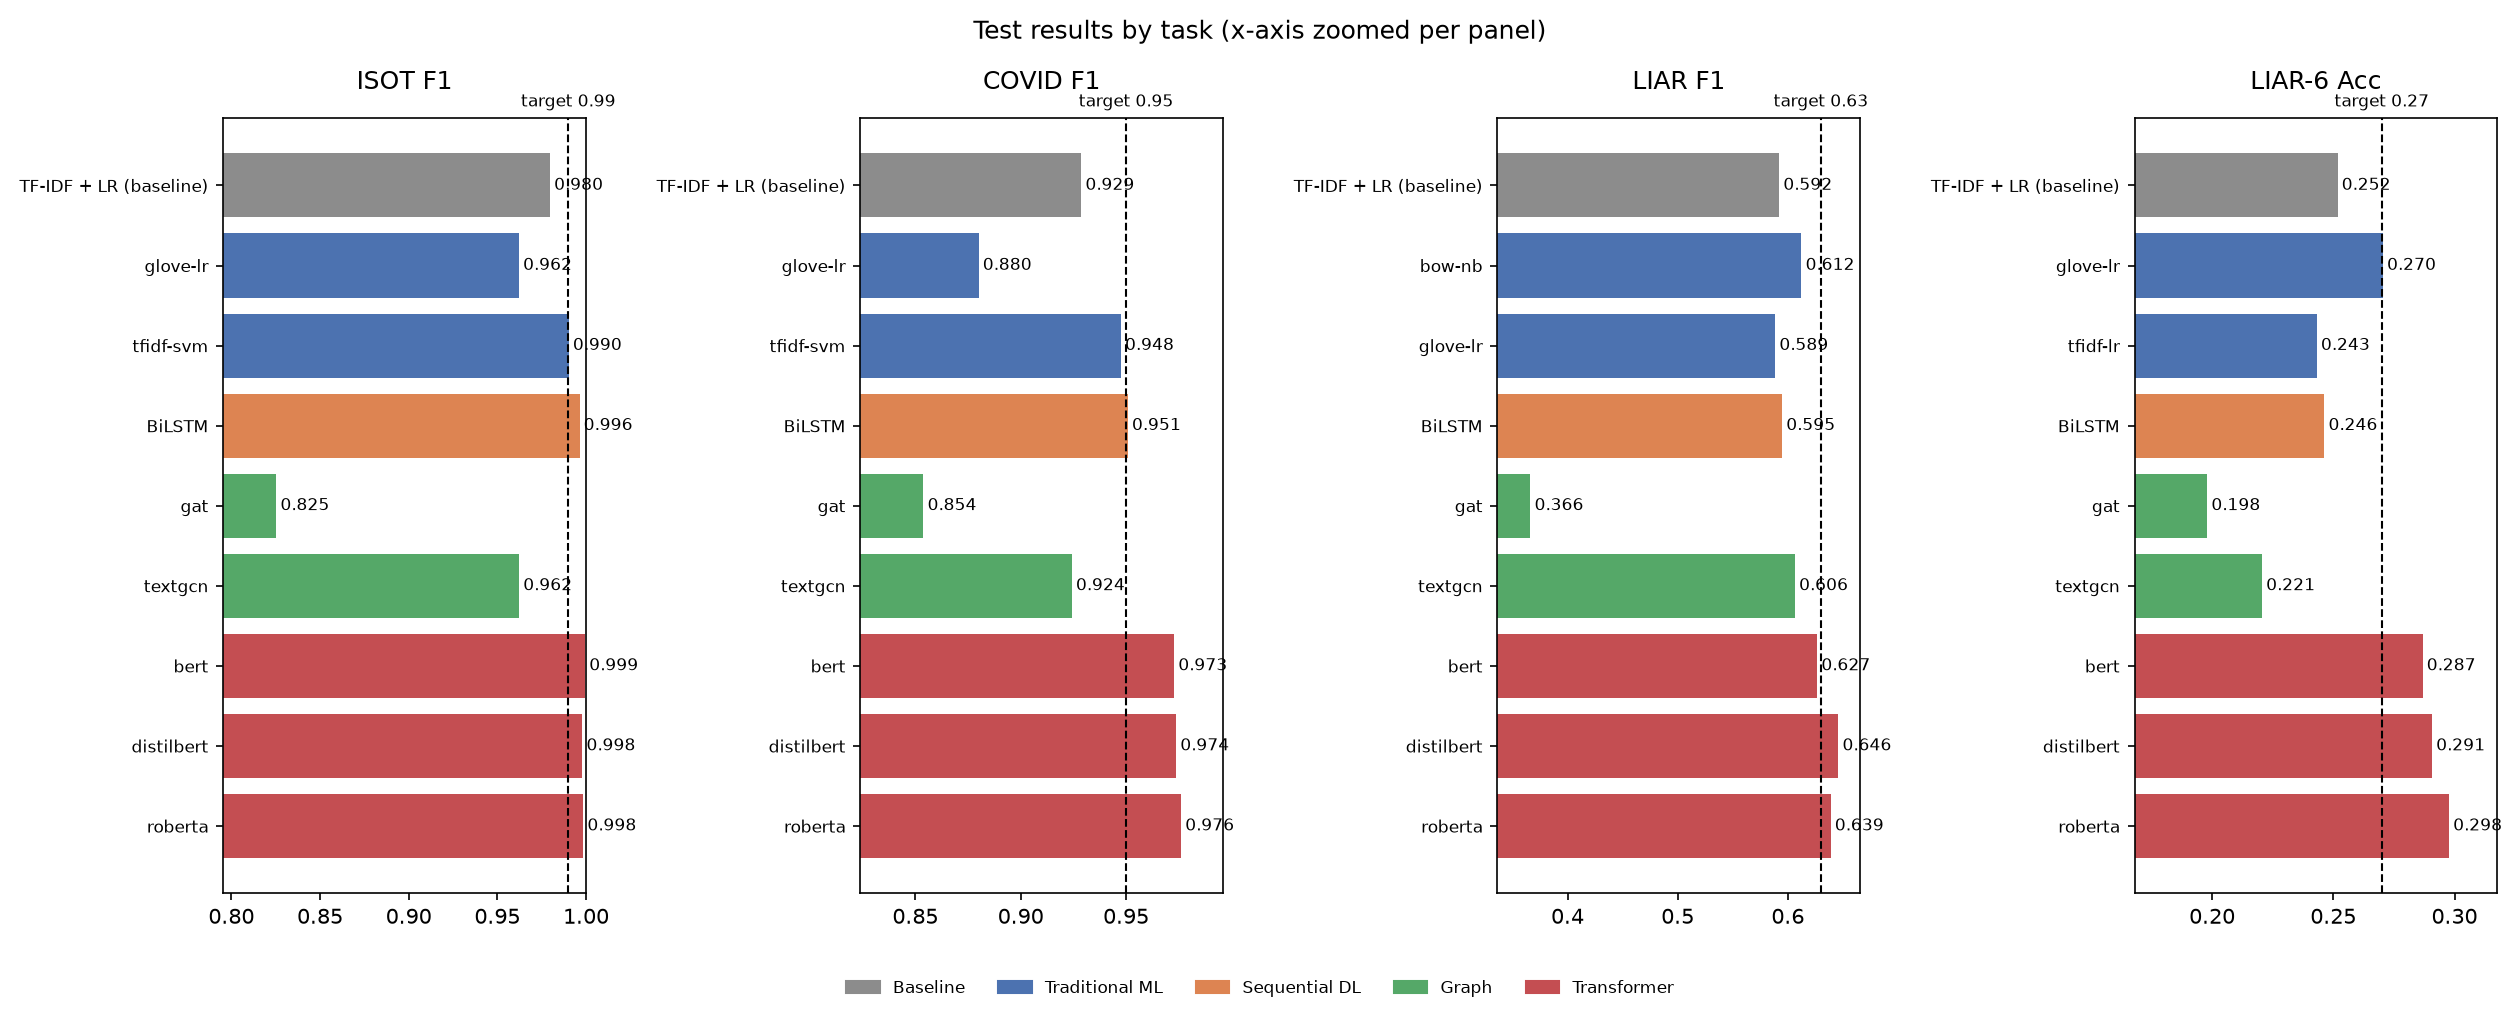
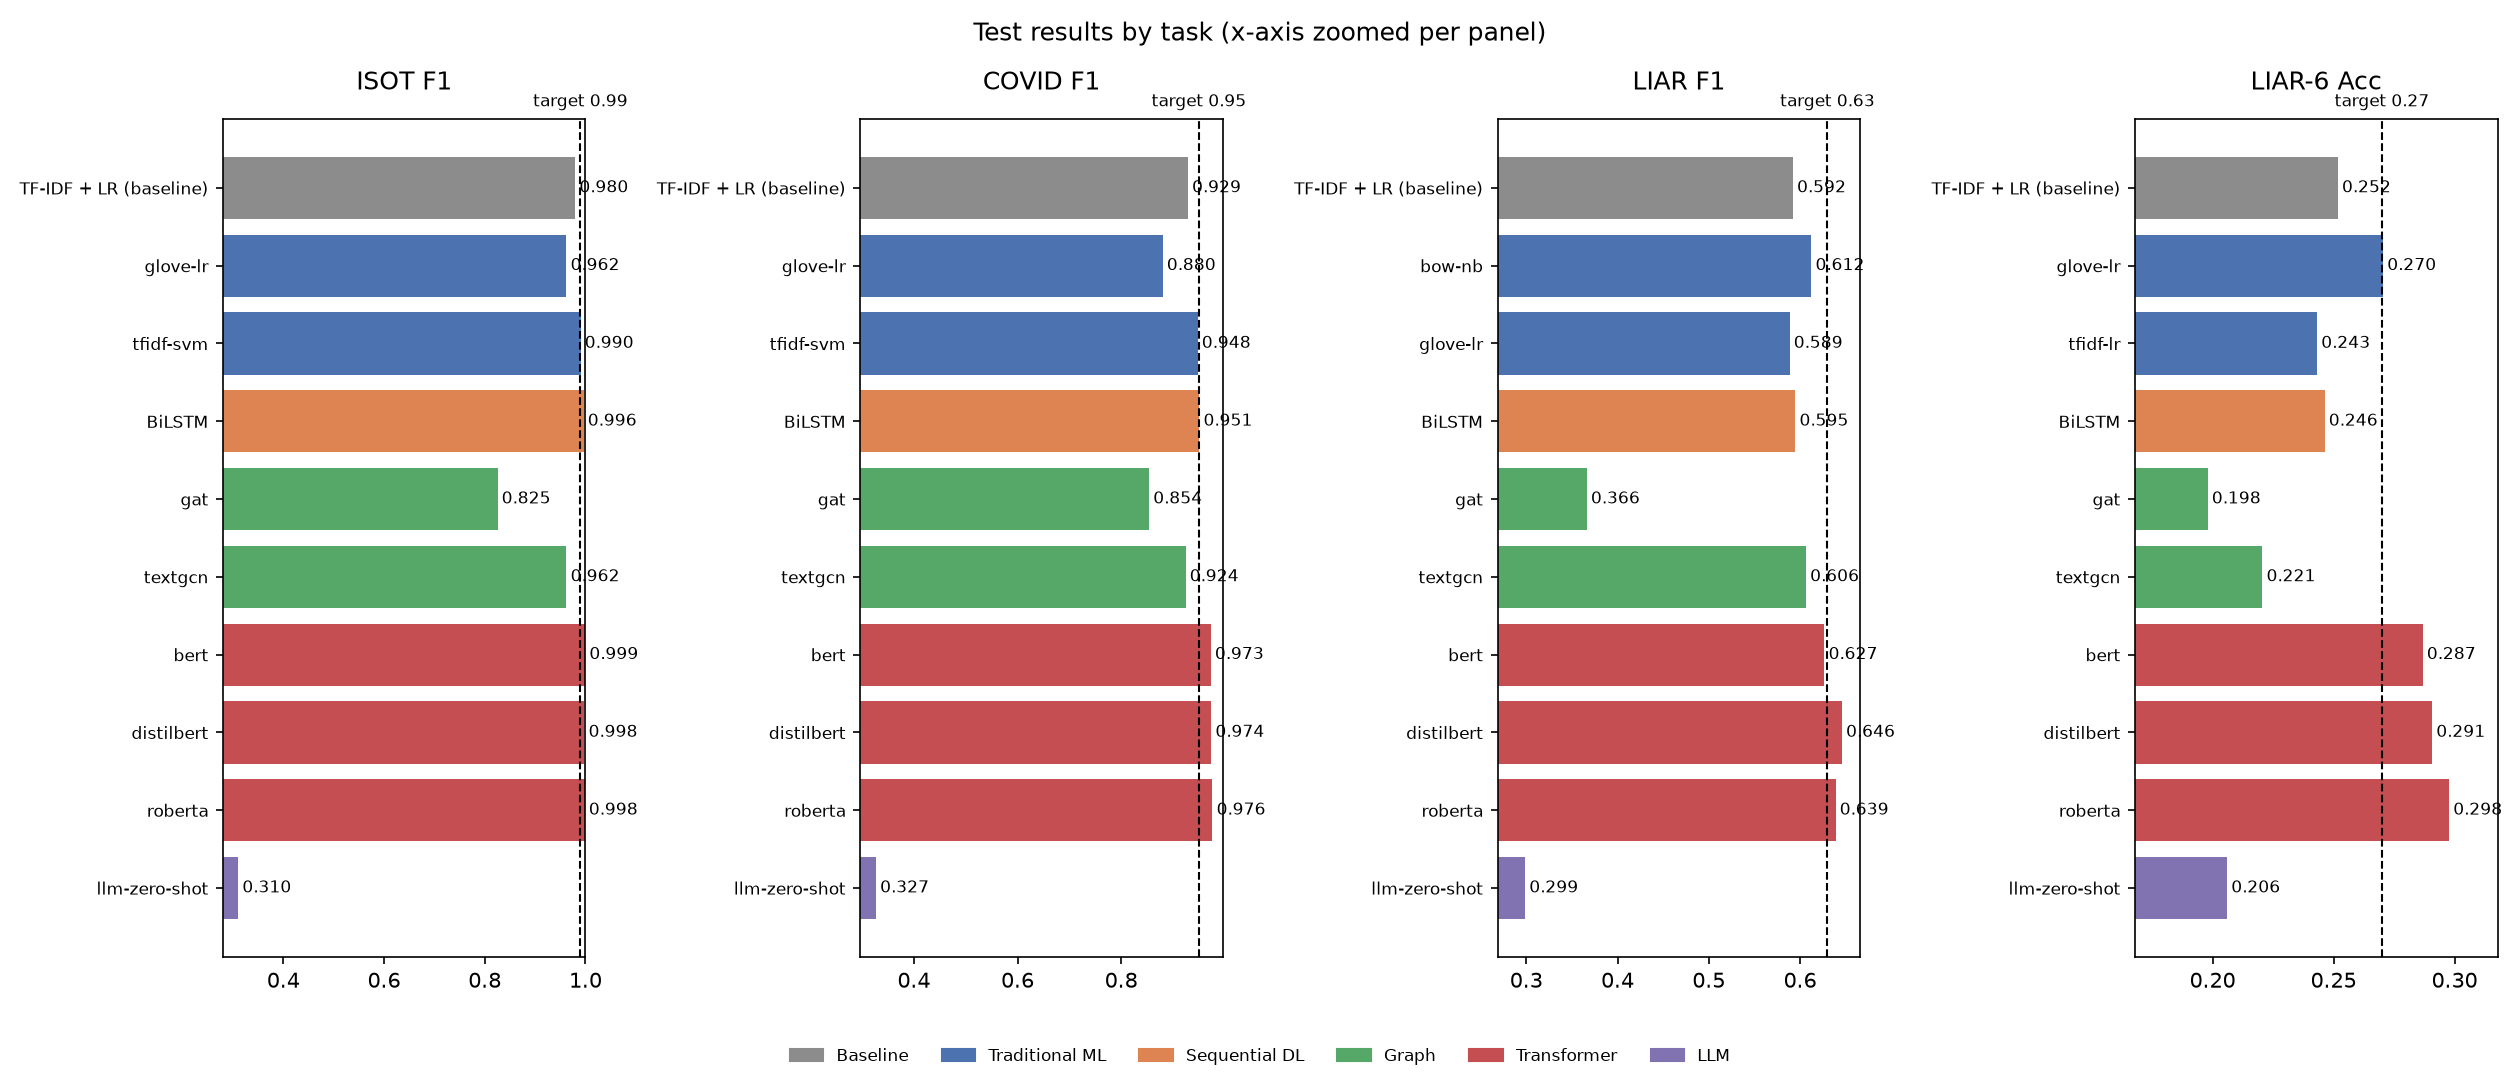
Final results report: adds zero-shot LLM row

diff --git a/results/report/main_results.md b/results/report/main_results.md
@@ -11,5 +11,6 @@
 | bert | Transformer | **0.999** | 0.973 | 0.627 | 0.287 | **0.286** |
 | distilbert | Transformer | 0.998 | 0.974 | **0.646** | 0.291 | 0.277 |
 | roberta | Transformer | 0.998 | **0.976** | 0.639 | **0.298** | 0.280 |
+| llm-zero-shot | LLM | 0.310 | 0.327 | 0.299 | 0.206 | 0.087 |
 
 Test set, macro-F1 unless marked Acc (accuracy). **Bold** = best per column.
